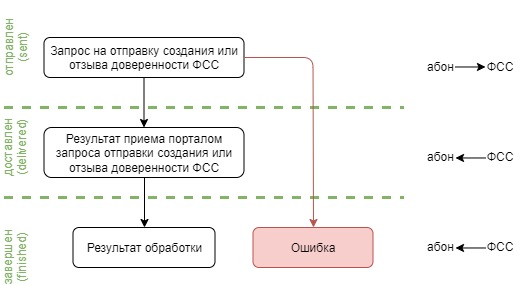
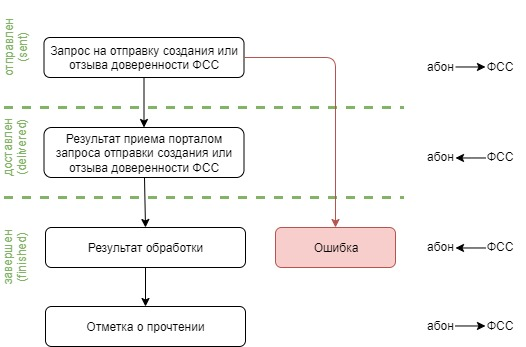
add IoP

diff --git a/docs/knowledge base/proactive_ algorithm.rst b/docs/knowledge base/proactive_ algorithm.rst
@@ -48,12 +48,14 @@
 2. Загрузите файл документа в :ref:`Сервис контентов<rst-markup-load>`.
 3. Создайте документ в черновике: :ref:`POST AddDocument<rst-markup-addDocument>`. При создании укажите ссылку на документ в виде идентификатора из :ref:`Сервиса контентов<rst-markup-load>`.
 4. Возьмите идентификатор подписи из метаинформации ответа метода ``AddDocument`` в поле ``data-to-sign-content-id`` и получите данные для подписи через :ref:`Сервис контентов<rst-markup-dowload>`. 
-5. Подпишите эти данные сырой (raw) подписью. 
+5. Подпишите эти данные необработанной (raw) подписью. 
 6. Приложите подпись к документу: :ref:`POST Add signature<rst-markup-AddSignature>`.
 7. Когда черновик готов, запустите последовательность методов: :ref:`POST Check<rst-markup-check>` -> :ref:`POST Prepare<rst-markup-prepare>` -> :ref:`POST Send<rst-markup-send>`. Укажите флаг ``deferred = true`` для отложенного выполнения задач. 
 8. Проверьте результат выполнения методов ``Check``, ``Prepare``, ``Send`` в задачах: :ref:`GET DraftTask<rst-markup-DraftTasks>`. Если запрос по методу ``Send`` завершился успешно, то в ответе вернется информация о созданном документообороте (ДО).
 
-В рамках проактивных выплат ДО считается завершенным после отправки черновика. Необходимо ожидать входящие документообороты от ФСС. Документы входящих ДО также будут отображаться в исходящих ДО. 
+В рамках проактивных выплат ДО считается завершенным после отправки черновика. Однако после получения документа с результатом обработки или приема сообщения в исходящих документооборотах, необходимо отправить ответный документ "Отметка о прочтении". О том, как сформировать и отправить отметку о прочтении читайте в разделе :ref:`Отправка ответных документов<rst-markup-reply-docs>`. 
+
+После необходимо ожидать входящие документообороты от ФСС. Документы входящих ДО также будут отображаться в исходящих ДО. 
 
 .. _rst-markup-sedo-incoming-dc:
 
@@ -69,9 +71,11 @@
 Поиск входящих документооборотов от ФСС
 ~~~~~~~~~~~~~~~~~~~~~~~~~~~~~~~~~~~~~~~
 
-Найдите входящие документообороты от ФСС: :ref:`GET Docflows<rst-markup-get-dcs>`. В запросе укажите фильтр ``type`` и тип нужного ДО согласно :ref:`спецификации<rst-markup-cbrf>`, например, ``type=fss-sedo-pvso-notification&type=fss-sedo-sick-report-change-notification&type=fss-sedo-error``. Новые документообороты будут отображаться в статусе **received**. Для получения документов и смены статуса ДО нужно отправить запрос на получение документов от ФСС. Далее работайте с каждым ДО по отдельности. 
+Найдите входящие документообороты от ФСС: :ref:`GET Docflows<rst-markup-get-dcs>`. В запросе укажите фильтр ``type`` и тип нужного ДО согласно :ref:`спецификации<rst-markup-cbrf>`, например, ``type=fss-sedo-pvso-notification&type=fss-sedo-sick-report-change-notification&type=fss-sedo-error``.
 
 .. important:: В результатах поиска не будет документооборотов с типами ``fss-sedo-*``, если их тип не был указан в параметре ``type``.
+
+Новые документообороты будут отображаться в статусе **received**. Для получения документов и смены статуса ДО нужно отправить запрос на получение документов от ФСС. Далее работайте с каждым ДО по отдельности.
 
 Запрос на получение документов от ФСС
 ~~~~~~~~~~~~~~~~~~~~~~~~~~~~~~~~~~~~~
@@ -98,11 +102,13 @@
         * urn:docflow:fss-sedo-pvso-notification – извещение ПВСО;
         * urn:docflow:fss-sedo-sick-report-change-notification – уведомление об изменении статуса ЭЛН.
 
-    Статус документооборотов поменяется на **response-arrived**. Для данных документооборотов **потребуется отправка ответных документов**: "Отметка о прочтении" и "Извещение о прочтении".
+    Статус ДО поменяется на **response-arrived**. Для данных документооборотов **потребуется отправка ответных документов**: "Отметка о прочтении" и "Извещение о прочтении".
 
     c. Для остальных входящих документооборотов статус поменяется на **response-arrived**. Документы будут только во входящем ДО. Для данных документооборотов **потребуется отправка ответного документа** "Отметка о прочтении".
 
 .. note:: Рекомендуем для дальнейшей работы каждый документооборот вычитать отдельно методом :ref:`GET Docflow<rst-markup-get-dc>`.
+
+.. _rst-markup-reply-docs: 
 
 Отправка ответных документов
 ~~~~~~~~~~~~~~~~~~~~~~~~~~~~
@@ -120,7 +126,10 @@
    "urn:docflow:fss-sedo-insured-person-mismatch", "urn:document:fss-sedo-insured-person-mismatch-mismatch-message"
    "urn:docflow:fss-sedo-proactive-payments-benefit", "urn:document:fss-sedo-proactive-payments-benefit-benefit-message"
    "urn:docflow:fss-sedo-proactive-payments-demand", "urn:document:fss-sedo-proactive-payments-demand-demand-message"
-   "urn:docflow:fss-sedo-benefit-payment-initiation-result", "urn:document:fss-sedo-benefit-payment-initiation-result-status-document"
+   "urn:docflow:fss-sedo-insured-person-registration", "urn:document:fss-sedo-insured-person-registration-receipt"
+   "urn:docflow:fss-sedo-proactive-payments-reply", "urn:document:fss-sedo-proactive-payments-reply-receipt"
+   "urn:docflow:fss-sedo-benefit-payment-initiation", "urn:document:fss-sedo-benefit-payment-initiation-result-document"
+   "urn:docflow:fss-warrant-management", "urn:document:fss-warrant-management-response-message"
 
 2. Чтобы получить файл документа, возьмите идентификатор ``content-id`` в метаинформации документа, в модели ``docflow-document-contents`` и скачайте документ из :ref:`Сервиса контентов<rst-markup-dowload>`.
 
@@ -129,15 +138,18 @@
     a. Сгенерирйте ответный документ: :ref:`POST CreateReplyDocument<rst-markup-post-reply-doc>`. Используйте идентификатор найденного документа для поля ``documentId``. Укажите в поле ``documentType`` тип документа для нужного ДО: 
 
     .. csv-table:: 
-        :header: "Документооборот", "Тип документа"
+        :header: "Тип входящего документа", "Тип ответного документа"
         :widths: 20 30
-
+        
         "urn:document:fss-sedo-pvso-notification-notification-message", "urn:document:fss-sedo-pvso-notification-receipt"
         "urn:document:fss-sedo-sick-report-change-notification-notification-message", "urn:document:fss-sedo-sick-report-change-notification-receipt"
         "urn:document:fss-sedo-insured-person-mismatch-mismatch-message", "urn:document:fss-sedo-insured-person-mismatch-receipt-receipt"
         "urn:document:fss-sedo-proactive-payments-benefit-benefit-message", "urn:document:fss-sedo-proactive-payments-benefit-receipt"
         "urn:document:fss-sedo-proactive-payments-demand-demand-message", "urn:document:fss-sedo-proactive-payments-demand-receipt"
-        "urn:document:fss-sedo-benefit-payment-initiation-result-status-document", "urn:document:fss-sedo-benefit-payment-initiation-read-receipt"
+        "urn:document:fss-sedo-benefit-payment-initiation-result-document", "urn:document:fss-sedo-benefit-payment-initiation-read-receipt"
+        "urn:document:fss-sedo-insured-person-registration-receipt", "urn:document:fss-sedo-insured-person-registration-read-receipt"
+        "urn:document:fss-sedo-proactive-payments-reply-receipt", "urn:document:fss-sedo-proactive-payments-reply-read-receipt"
+        "urn:document:fss-warrant-management-response-message", "urn:document:fss-warrant-management-response-read-receipt"
 
     b. Перейдите по ссылке из поля ``links`` в параметре ``rel``, содержащей тип нужного ответного документа. 
 
@@ -153,7 +165,7 @@
 
 1. Сгенерировать ответный документ с помощью метода:
 
-    1. Сгенерируйте ответный документ: :ref:`POST CreateReplyDocument<rst-markup-post-reply-doc>`. При запросе указывает в поле ``documentType`` тип документа, который имеет вид ``fss-sedo-*-notification-receipt-notification-message``, где * - наименование документооборота.
+    1. Сгенерируйте ответный документ: :ref:`POST CreateReplyDocument<rst-markup-post-reply-doc>`. При запросе указывает в поле ``documentType`` тип документа, который имеет вид ``fss-sedo-*-receipt-notification-message``, где * - наименование документооборота.
     2. Возьмите контент подписи из метаинформации сгенерированного документа в параметре ``data-to-sign``.
     3. Подпишите эти данные необработанной (raw) подписью.
     4. Добавьте подпись к ответному документу: :ref:`PUT ReplyDocumentSignature<rst-markup-repliSignature>`.

diff --git a/docs/specification/типы документов.rst b/docs/specification/типы документов.rst
@@ -457,8 +457,9 @@
 
       "urn:document:fss-sedo-pvso-notification-request-message", "Запрос на получение контента извещения ПВСО"
       "urn:document:fss-sedo-pvso-notification-notification-message", "Извещение ПВСО"
-      "urn:document:fss-sedo-pvso-notification-receipt-notification-message", "Подтверждение прочтения сообщения страхователем"
+      "urn:document:fss-sedo-pvso-notification-receipt-notification-message", "Извещение о прочтении сообщения страхователем"
       "urn:document:fss-sedo-pvso-notification-receipt-notification-receipt-message", "Результат подтверждения прочтения сообщения от СЭДО"
+      "urn:document:fss-sedo-pvso-notification-receipt", "Отметка о прочтении"
       "urn:document:fss-sedo-pvso-notification-error-message", "Ошибка обработки документа (асинхронная ошибка, приходит в urn:docflow:fss-sedo-error)"
       "urn:document:fss-sedo-pvso-notification-exchange-error", "Ошибка взаимодействия с СЭДО (синхронная ошибка обработки запроса в СЭДО)"
 
@@ -473,8 +474,9 @@
 
       "urn:document:fss-sedo-sick-report-change-notification-request-message", "Запрос на получение контента уведомления об изменении статуса ЭЛН"
       "urn:document:fss-sedo-sick-report-change-notification-notification-message", "Уведомление об изменении статуса ЭЛН"
-      "urn:document:fss-sedo-sick-report-change-notification-receipt-notification-message", "Подтверждение прочтения сообщения страхователем"
+      "urn:document:fss-sedo-sick-report-change-notification-receipt-notification-message", "Извещение о прочтении сообщения страхователем"
       "urn:document:fss-sedo-sick-report-change-notification-receipt-notification-receipt-message", "Результат подтверждения прочтения сообщения от СЭДО"
+      "urn:document:fss-sedo-sick-report-change-notification-receipt", "Отметка о прочтении"
       "urn:document:fss-sedo-sick-report-change-notification-error-message", "Ошибка обработки документа (асинхронная ошибка, приходит в urn:docflow:fss-sedo-error)"
       "urn:document:fss-sedo-sick-report-change-notification-exchange-error", "Ошибка взаимодействия с СЭДО (синхронная ошибка обработки запроса в СЭДО)"
 
@@ -490,6 +492,7 @@
 
       "urn:document:fss-sedo-proactive-payments-demand-request-message", "Запрос на получение документов"
       "urn:document:fss-sedo-proactive-payments-demand-demand-message", "Документ запроса"
+      "urn:document:fss-sedo-proactive-payments-demand-receipt", "Отметка о прочтении"
       "urn:document:fss-sedo-proactive-payments-demand-error-message", "Ошибка обработки"
       "urn:document:fss-sedo-proactive-payments-demand-exchange-error", "Ошибка взаимодействия с СЭДО"
 
@@ -503,8 +506,9 @@
    :widths: 20 80
 
       "urn:document:fss-sedo-proactive-payments-reply-request", "Запрос на отправку сведений"
-      "urn:document:fss-sedo-proactive-payments-reply-receipt", "Результат приёма запроса порталом"
+      "urn:document:fss-sedo-proactive-payments-reply-receipt", "Результат приема запроса порталом"
       "urn:document:fss-sedo-proactive-payments-reply-response-result", "Результат обработки запроса"
+      "urn:document:fss-sedo-proactive-payments-reply-read-receipt", "Отметка о прочтении"
       "urn:document:fss-sedo-proactive-payments-reply-error-message", "Ошибка обработки"
       "urn:document:fss-sedo-proactive-payments-reply-exchange-error", "Ошибка взаимодействия с СЭДО"
 
@@ -532,6 +536,7 @@
 
       "urn:document:fss-sedo-proactive-payments-benefit-request-message", "Запрос на получение документов"
       "urn:document:fss-sedo-proactive-payments-benefit-benefit-message", "Документ с выплатами"
+      "urn:document:fss-sedo-proactive-payments-benefit-receipt", "Отметка о прочтении"
       "urn:document:fss-sedo-proactive-payments-benefit-error-message", "Ошибка обработки"
       "urn:document:fss-sedo-proactive-payments-benefit-exchange-error", "Ошибка взаимодействия с СЭДО"
 
@@ -545,7 +550,8 @@
    :widths: 20 80
 
       "urn:document:fss-sedo-insured-person-registration-request", "Запрос на регистрацию сведений"
-      "urn:document:fss-sedo-insured-person-registration-receipt", "Результат приёма запроса порталом"
+      "urn:document:fss-sedo-insured-person-registration-receipt", "Результат приема запроса порталом"
+      "urn:document:fss-sedo-insured-person-registraton-read-receipt", "Отметка о прочтении"
       "urn:document:fss-sedo-insured-person-registration-error-message", "Ошибка обработки"
       "urn:document:fss-sedo-insured-person-registration-exchange-error", "Ошибка взаимодействия с СЭДО"
 
@@ -574,6 +580,7 @@
 
       "urn:document:fss-sedo-insured-person-mismatch-request-message", "Запрос на получение документов"
       "urn:document:fss-sedo-insured-person-mismatch-mismatch-message", "Документ с информацией"
+      "urn:document:fss-sedo-insured-person-mismatch-receipt", "Отметка о прочтении"
       "urn:document:fss-sedo-insured-person-mismatch-error-message", "Ошибка обработки"
       "urn:document:fss-sedo-insured-person-mismatch-exchange-error", "Ошибка взаимодействия с СЭДО"
 
@@ -588,6 +595,7 @@
 
       "urn:document:fss-sedo-benefit-payment-initiation-request", "Запрос на отправку сообщения «Инициация выплаты пособия»"
       "urn:document:fss-sedo-benefit-payment-initiation-reception-result", "Результат отправки сообщения на портал"
+      "urn:document:fss-sedo-benefit-payment-initiation-read-receipt", "Отметка о прочтении"
       "urn:document:fss-sedo-benefit-payment-initiation-result-document", "Сообщение «Результат обработки сообщения инициации выплат ФСС»"
       "urn:document:fss-sedo-benefit-payment-initiation-error-message", "Ошибка обработки"
       "urn:document:fss-sedo-benefit-payment-initiation-exchange-error", "Ошибка взаимодействия с порталом СЭДО"
@@ -609,7 +617,7 @@
 Уведомление о статусе выплаты пособия
 +++++++++++++++++++++++++++++++++++++
 
-Тип документооборота urn:docflow:fss-sedo-benefit-payment-status-notice
+Тип документооборота urn:docflow:fss-sedo-benefit-payment-status-notice.
 
 .. csv-table::
    :header: "Urn", "Комментарий (согласно нормативным документам)"
@@ -624,7 +632,7 @@
 Запрос регистрации или отзыва доверенности ФСС
 ++++++++++++++++++++++++++++++++++++++++++++++++
 
-Тип документооборота urn:docflow:fss-warrant-management
+Тип документооборота urn:docflow:fss-warrant-management.
 
 .. csv-table::
    :header: "Urn", "Комментарий (согласно нормативным документам)"
@@ -636,11 +644,12 @@
       "urn:document:fss-warrant-management-exchange-error", "Ошибка взаимодействия с СЭДО"
       "urn:document:fss-warrant-management-reception-result", "Результат отправки сообщения на портал СЭДО"
       "urn:document:fss-warrant-management-response-message", "Результат обработки создания или отзыва доверенности ФСС"
+      "urn:document:fss-warrant-management-read-receipt", "Отметка о прочтении"
 
 Результат создания или отзыва доверенности ФСС
 +++++++++++++++++++++++++++++++++++++++++++++++
 
-Тип документооборота urn:docflow:fss-warrant-management-result
+Тип документооборота urn:docflow:fss-warrant-management-result.
 
 .. csv-table::
    :header: "Urn", "Комментарий (согласно нормативным документам)"
@@ -654,7 +663,7 @@
 Результат подтверждения прочтения
 +++++++++++++++++++++++++++++++++
 
-Тип документооборота urn:docflow:fss-sedo-receipt-notification-result
+Тип документооборота urn:docflow:fss-sedo-receipt-notification-result.
 
 .. csv-table::
    :header: "Urn", "Комментарий (согласно нормативным документам)"

diff --git a/docs/specification/статусы ДО.rst b/docs/specification/статусы ДО.rst
@@ -407,10 +407,10 @@
    :widths: 20 10 50
 
    "urn:docflow-common-status:received", "Получен", "Получена информация для генерации запроса на получение извещения ПВСО"
-   "urn:docflow-common-status:arrived", "	Получен", "Получен запрос на получение извещения ПВСО"
+   "urn:docflow-common-status:arrived", "Получен", "Получен запрос на получение извещения ПВСО"
    "urn:docflow-common-status:response-arrived", "Получен ответ", "Получено извещение ПВСО и отправлено извещение о прочтении извещения ПВСО"
    "urn:docflow-common-status:processed", "Ответ обработан", "Отправлена отметка о прочтении извещения ПВСО"
-   "urn:docflow-common-status:delivered", "Доставлен", "Результат приема порталом извещения о прочтении"
+   "urn:docflow-common-status:delivered", "Доставлен", "Получен результат приема порталом извещения о прочтении"
    "urn:docflow-common-status:finished", "Завершен", "Получен результат подтверждения прочтения"
 
 Процесс изменения статуса:
@@ -427,10 +427,10 @@
    :header: "Urn", "Короткое имя", "Комментарий"
    :widths: 20 10 50
 
-   "urn:docflow-common-status:received", "Получен", "Получена информация для генерации запроса на получение уведомления"
-   "urn:docflow-common-status:arrived", "Получен", "Получен запрос на получение уведомления об изменении ЭЛН"
-   "urn:docflow-common-status:response-arrived", "Получен ответ", "Получено уведомление об изменении ЭЛН и отправлено извещение о прочтении уведомления"
-   "urn:docflow-common-status:processed", "Ответ обработан", "Отправлена отметка о прочтении уведомления об изменении ЭЛН"
+   "urn:docflow-common-status:received", "Получен", "Получена информация для генерации запроса на получение уведомления об изменении статуса ЭЛН"
+   "urn:docflow-common-status:arrived", "Получен", "Получен запрос на получение уведомления об изменении статуса ЭЛН"
+   "urn:docflow-common-status:response-arrived", "Получен ответ", "Получено уведомление об изменении статуса ЭЛН и отправлено извещение о прочтении уведомления"
+   "urn:docflow-common-status:processed", "Ответ обработан", "Отправлена отметка о прочтении уведомления об изменении статуса ЭЛН"
    "urn:docflow-common-status:delivered", "Доставлен", "Получен результат приема порталом извещения о прочтении"
    "urn:docflow-common-status:finished", "Завершен", "Получен результат подтверждения прочтения"
 
@@ -464,7 +464,7 @@
    "urn:docflow-common-status:sent", "Отправлен", "Отправлены сведения для назначения пособия ФСС"
    "urn:docflow-common-status:delivered", "Доставлен", "Получен успешный результат приема порталом запроса отправки сведений для назначения пособий ФСС"
    "urn:docflow-common-status:response-arrived", "Получен ответ", "Получен промежуточный результат обработки"
-   "urn:docflow-common-status:finished", "Завершен", "Получен результат обработки"
+   "urn:docflow-common-status:finished", "Завершен", "Получен результат обработки и отправлена отметка о прочтении"
 
 Процесс изменения статуса:
 
@@ -493,7 +493,7 @@
 
    "urn:docflow-common-status:received", "Получен", "Получена информация для генерации запроса на получение документов"
    "urn:docflow-common-status:arrived", "Получен", "Получен запрос на получение документа выплаты пособия ФСС"
-   "urn:docflow-common-status:response-arrived", "Получен ответ", "Получена выплата пособия ФСС"
+   "urn:docflow-common-status:response-arrived", "Получен ответ", "Получен документ «Выплата пособия ФСС»"
    "urn:docflow-common-status:finished", "Завершен", "Отправлена отметка о прочтении"
 
 Процесс изменения статуса:
@@ -509,7 +509,7 @@
 
    "urn:docflow-common-status:sent", "Отправлен", "Отправлен запрос на регистрацию сведений о застрахованном лице"
    "urn:docflow-common-status:delivered", "Доставлен", "Получен успешный результат приема порталом запроса отправки регистрации сведений о застрахованном лице"
-   "urn:docflow-common-status:finished", "Завершен", "Получен результат обработки"
+   "urn:docflow-common-status:finished", "Завершен", "Получен результат обработки и отправлена отметка о прочтении"
 
 Процесс изменения статуса:
 
@@ -616,7 +616,7 @@
 
    "urn:docflow-common-status:sent", "Отправлен", "Отправлен запрос на отправку создания или отзыва доверенности ФСС"
    "urn:docflow-common-status:delivered", "Доставлен", "Получен результат приема порталом запроса создания или отзыва доверенности ФСС"
-   "urn:docflow-common-status:finished", "Завершен", "Получен результат обработки"
+   "urn:docflow-common-status:finished", "Завершен", "Получен результат обработки и отправлена отметка о прочтении"
 
 Процесс изменения статуса:
 

diff --git a/docs/specification/типы ДО.rst b/docs/specification/типы ДО.rst
@@ -53,11 +53,11 @@
 
    "urn:docflow:fss-report", "Расчет по форме 4-ФСС"
    "urn:docflow:oved-confirmation", "Подтверждение основного вида экономической деятельности"
-   "urn:docflow:fss-sedo-sick-report-change-notification", "Уведомления об изменении статуса электронного больничного листа"
+   "urn:docflow:fss-sedo-sick-report-change-notification", "Уведомление об изменении статуса электронного больничного листа"
    "urn:docflow:fss-sedo-pvso-notification", "Извещение о прямых выплатах мер социального обеспечения"
    "urn:docflow:fss-sedo-error", "Сообщения об ошибках в документообортах ФСС через СЭДО"
    "urn:docflow:fss-sedo-provider-subscription","Подписка оператора на документооборот с ФСС по абоненту"
-   "urn:docflow:fss-sick-report", "Реестр ПВСО (прямых выплат страхового обеспечения"
+   "urn:docflow:fss-sick-report", "Реестр ПВСО (прямых выплат страхового обеспечения)"
    "urn:docflow:fss-sedo-proactive-payments-demand","Запрос недостающих сведений для назначения пособия ФСС"
    "urn:docflow:fss-sedo-proactive-payments-reply","Ответ на запрос проверки, подтверждения, корректировки сведений проактивной выплаты страхового обеспечения"
    "urn:docflow:fss-sedo-proactive-payments-reply-result","Результат обработки ответа на запрос проверки, подтверждения, корректировки сведений проактивной выплаты страхового обеспечения"
